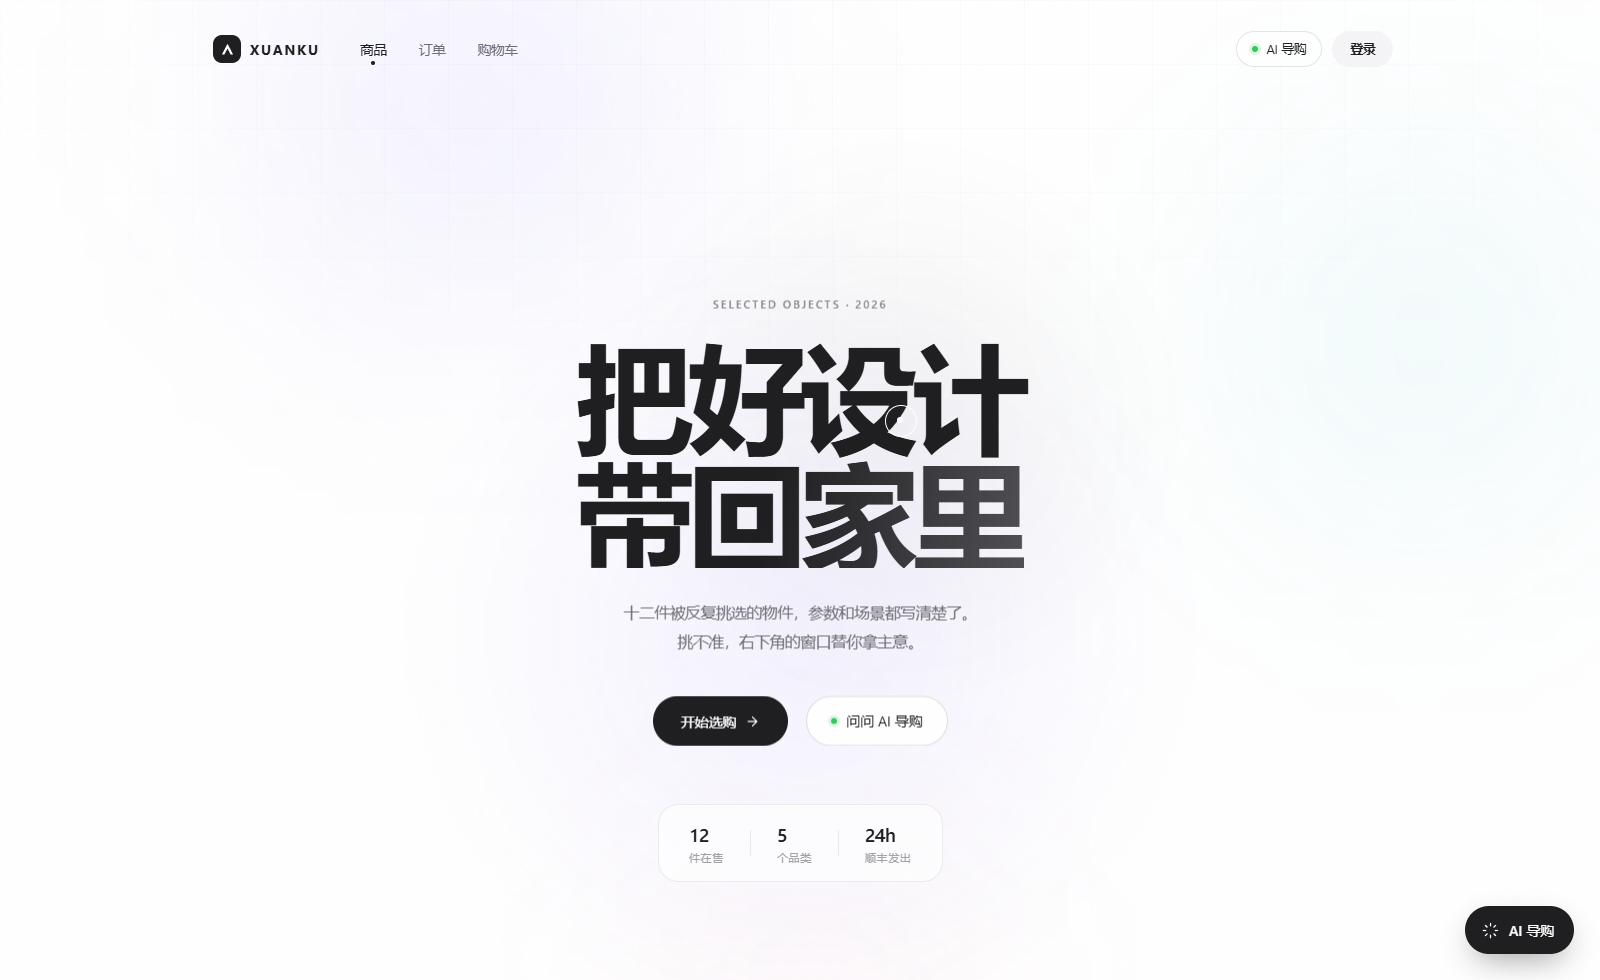
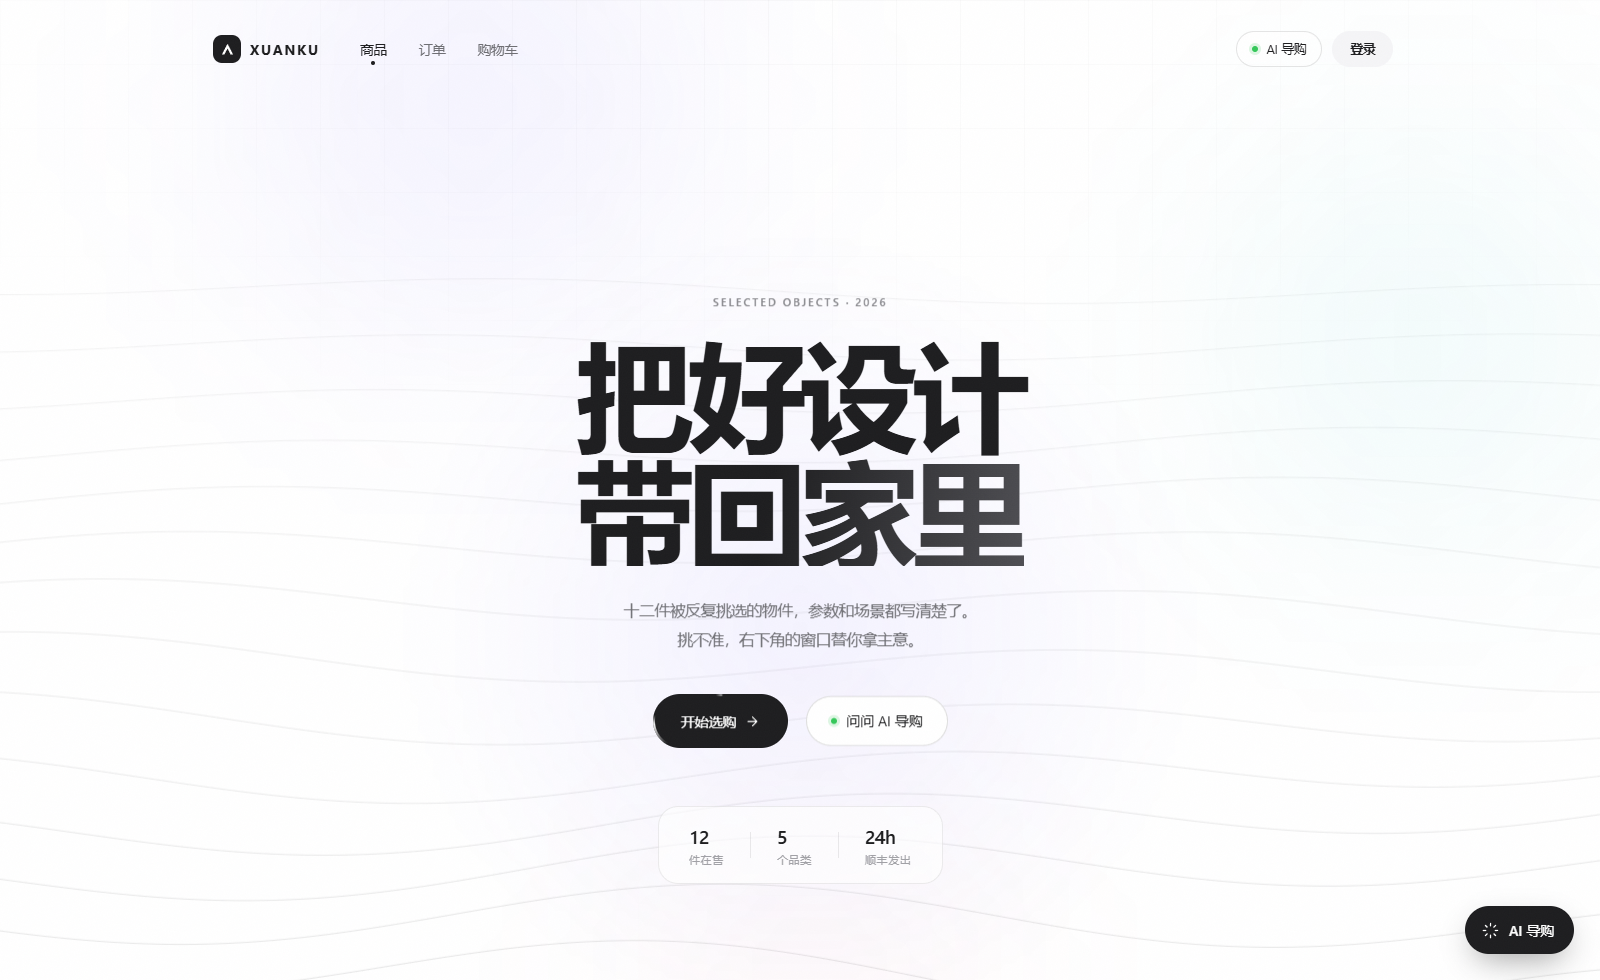
feat: 移植四件现成动效——波浪背景 / 解码文字 / StarBorder / 滚动视差
- WavesBg：hero 背景 16 行黑白细线正弦波叠加漂移，进出视口自动暂停，reduced-motion 画静态一帧
- v-scramble 指令：元素进视口时字符从随机符号逐帧解码成真实文案（React Bits DecryptedText 思路），hover 重播
- StarBorder：主 CTA 光点收敛到边缘 2px 环反向绕行（修掉第一版大光斑扫面的问题）
- 商品图滚动驱动视差：CSS animation-timeline: view() 零 JS，不支持的平台静态降级

diff --git a/src/views/shop/ShopHome.vue b/src/views/shop/ShopHome.vue
@@ -3,6 +3,7 @@ import { computed, inject, onBeforeUnmount, onMounted, reactive, ref, watch } fr
 import { useRoute, useRouter } from 'vue-router'
 import { shopApi } from '../../api'
 import { demoProducts, demoCategories } from '../../api/demo'
+import WavesBg from '../../components/WavesBg.vue'
 
 const route = useRoute()
 const router = useRouter()
@@ -188,11 +189,12 @@ const heroStyle = computed(() => {
   <div class="home">
     <!-- ============ HERO ============ -->
     <section ref="heroEl" class="hero" @mousemove="heroSpot">
+      <WavesBg class="hero-waves" />
       <div class="hero-glow" aria-hidden="true"></div>
       <div class="hero-spot" aria-hidden="true"></div>
 
       <div class="hero-inner" :style="heroStyle">
-        <p class="eyebrow hero-in">Selected Objects · 2026</p>
+        <p class="eyebrow hero-in" v-scramble>Selected Objects · 2026</p>
 
         <h1 class="title">
           <span class="line">
@@ -219,10 +221,16 @@ const heroStyle = computed(() => {
             @mousemove="magnetMove"
             @mouseleave="magnetLeave"
           >
-            <span>开始选购</span>
-            <svg viewBox="0 0 24 24" width="15" height="15" fill="none" stroke="currentColor" stroke-width="2">
-              <path d="M5 12h13M12 5l7 7-7 7" stroke-linecap="round" stroke-linejoin="round" />
-            </svg>
+            <span class="ring" aria-hidden="true">
+              <span class="beam"></span>
+              <span class="beam b2"></span>
+            </span>
+            <span class="core">
+              <span class="label">开始选购</span>
+              <svg viewBox="0 0 24 24" width="15" height="15" fill="none" stroke="currentColor" stroke-width="2">
+                <path d="M5 12h13M12 5l7 7-7 7" stroke-linecap="round" stroke-linejoin="round" />
+              </svg>
+            </span>
           </a>
           <button class="ghost" @click="openChat">
             <span class="spark"></span>
@@ -354,7 +362,7 @@ const heroStyle = computed(() => {
 
     <!-- ============ 尾部 CTA ============ -->
     <section class="outro">
-      <p class="eyebrow">还没想好？</p>
+      <p class="eyebrow" v-scramble>还没想好？</p>
       <h2 class="outro-title">
         让 AI 替你<br />
         <span class="grad-text">挑一件对的</span>
@@ -384,6 +392,14 @@ const heroStyle = computed(() => {
   justify-content: center;
   padding: 40px 32px 120px;
   overflow: hidden;
+  isolation: isolate;
+}
+
+/* 波浪线画布：垫在最底层，光晕之下 */
+.hero-waves {
+  position: absolute;
+  inset: 0;
+  z-index: 0;
 }
 
 .hero-glow {
@@ -418,6 +434,7 @@ const heroStyle = computed(() => {
 
 .hero-inner {
   position: relative;
+  z-index: 1;
   max-width: 1060px;
   text-align: center;
   will-change: transform, opacity;
@@ -490,22 +507,72 @@ const heroStyle = computed(() => {
 }
 
 .primary {
+  position: relative;
+  display: inline-flex;
+  height: 50px;
+  padding: 2px;
+  border-radius: 999px;
+  background: #1d1d1f;
+  text-decoration: none;
+  transition: transform 0.5s var(--ease-out);
+}
+
+/* StarBorder：光点只在边缘 2px 环上绕行，中心被 .core 盖住 */
+.primary .ring {
+  position: absolute;
+  inset: 0;
+  border-radius: 999px;
+  overflow: hidden;
+  pointer-events: none;
+}
+
+.primary .beam {
+  position: absolute;
+  inset: -150%;
+  background: conic-gradient(
+    from 0deg,
+    transparent 0deg 332deg,
+    rgba(255, 255, 255, 0.95) 352deg,
+    transparent 360deg
+  );
+  animation: beam-spin 4.2s linear infinite;
+}
+
+.primary .beam.b2 {
+  background: conic-gradient(
+    from 180deg,
+    transparent 0deg 344deg,
+    rgba(255, 255, 255, 0.5) 356deg,
+    transparent 360deg
+  );
+  animation-duration: 6.6s;
+  animation-direction: reverse;
+}
+
+.primary .core {
+  position: relative;
+  z-index: 1;
   display: inline-flex;
   align-items: center;
   gap: 9px;
-  height: 50px;
-  padding: 0 28px;
+  height: 100%;
+  padding: 0 26px;
   border-radius: 999px;
   background: #1d1d1f;
   color: #fff;
   font-size: 14px;
   font-weight: 500;
-  text-decoration: none;
-  transition: background-color 0.2s, transform 0.5s var(--ease-out);
+  transition: background-color 0.2s;
 }
 
-.primary:hover {
+.primary:hover .core {
   background: #000;
+}
+
+@keyframes beam-spin {
+  to {
+    transform: rotate(1turn);
+  }
 }
 
 .ghost {
@@ -881,6 +948,29 @@ const heroStyle = computed(() => {
 
 .card:hover .photo {
   transform: scale(1.06);
+}
+
+/* 滚动驱动图片视差：图片随卡片在视口中的位置上下平移（零 JS，渐进增强） */
+@keyframes card-par {
+  from {
+    transform: scale(1.12) translateY(-4.5%);
+  }
+  to {
+    transform: scale(1.12) translateY(4.5%);
+  }
+}
+
+@supports (animation-timeline: view()) {
+  .photo.loaded {
+    animation: card-par linear both;
+    animation-timeline: view();
+    animation-range: entry 10% cover 45%;
+  }
+  @media (prefers-reduced-motion: reduce) {
+    .photo.loaded {
+      animation: none;
+    }
+  }
 }
 
 .s0 .shape {

diff --git a/src/components/WavesBg.vue b/src/components/WavesBg.vue
@@ -1,0 +1,107 @@
+<script setup>
+/**
+ * Waves：hero 背景的一组黑白细线波浪（移植自 "silk / waves" 类 canvas 动效）。
+ * 多行正弦叠加缓慢漂移，进出视口自动暂停，reduced-motion 只画静态一帧。
+ */
+import { onBeforeUnmount, onMounted, ref } from 'vue'
+
+const props = defineProps({
+  rows: { type: Number, default: 16 },
+})
+
+const canvasRef = ref(null)
+let raf = 0
+let running = false
+let W = 0
+let H = 0
+let dpr = 1
+let io = null
+
+function resize() {
+  const el = canvasRef.value
+  if (!el) return
+  const rect = el.parentElement.getBoundingClientRect()
+  dpr = Math.min(2, window.devicePixelRatio || 1)
+  W = rect.width
+  H = rect.height
+  el.width = W * dpr
+  el.height = H * dpr
+  el.style.width = `${W}px`
+  el.style.height = `${H}px`
+}
+
+function draw(t) {
+  const ctx = canvasRef.value?.getContext('2d')
+  if (!ctx) return
+  ctx.setTransform(dpr, 0, 0, dpr, 0, 0)
+  ctx.clearRect(0, 0, W, H)
+
+  for (let i = 0; i < props.rows; i++) {
+    const p = i / (props.rows - 1)
+    const baseY = H * (0.18 + p * 0.75)
+    const amp = 10 + p * 22
+    const alpha = 0.05 + p * 0.07
+
+    ctx.beginPath()
+    for (let x = -10; x <= W + 10; x += 6) {
+      const y =
+        baseY +
+        Math.sin(x * 0.006 + t * 0.00045 + i * 0.42) * amp +
+        Math.sin(x * 0.0018 - t * 0.00028 + i * 0.9) * amp * 0.55
+      x === -10 ? ctx.moveTo(x, y) : ctx.lineTo(x, y)
+    }
+    ctx.strokeStyle = `rgba(29, 29, 31, ${alpha.toFixed(3)})`
+    ctx.lineWidth = 1
+    ctx.stroke()
+  }
+}
+
+function loop(t) {
+  draw(t)
+  raf = requestAnimationFrame(loop)
+}
+
+function start() {
+  if (running) return
+  running = true
+  if (window.matchMedia('(prefers-reduced-motion: reduce)').matches) {
+    draw(2200) // 静态一帧
+    return
+  }
+  raf = requestAnimationFrame(loop)
+}
+
+function stop() {
+  running = false
+  cancelAnimationFrame(raf)
+}
+
+onMounted(() => {
+  resize()
+  window.addEventListener('resize', resize)
+
+  io = new IntersectionObserver(
+    (entries) => (entries.some((e) => e.isIntersecting) ? start() : stop()),
+    { threshold: 0 },
+  )
+  io.observe(canvasRef.value.parentElement)
+})
+
+onBeforeUnmount(() => {
+  stop()
+  io?.disconnect()
+  window.removeEventListener('resize', resize)
+})
+</script>
+
+<template>
+  <canvas ref="canvasRef" class="waves" aria-hidden="true"></canvas>
+</template>
+
+<style scoped>
+.waves {
+  position: absolute;
+  inset: 0;
+  pointer-events: none;
+}
+</style>

diff --git a/src/directives/scramble.js b/src/directives/scramble.js
@@ -1,0 +1,72 @@
+/**
+ * v-scramble：解码文字效果（移植自 React Bits 的 DecryptedText 思路）。
+ * 元素进入视口时，字符从随机符号逐帧「解锁」成真实文案；
+ * 加 .hover 修饰符后鼠标移入会重新播放。
+ * 尊重 prefers-reduced-motion：直接显示原文。
+ */
+const POOL = '!<>-_\\/[]{}—=+*^?#________'
+
+function play(el) {
+  if (el._scrambleRaf) cancelAnimationFrame(el._scrambleRaf)
+  const finalText = el.dataset.scrambleText
+  const totalFrames = Math.max(20, finalText.length * 3)
+  let frame = 0
+
+  const tick = () => {
+    frame += 1
+    const revealed = Math.floor((frame / totalFrames) * finalText.length * 1.4)
+    let out = ''
+    for (let i = 0; i < finalText.length; i++) {
+      const ch = finalText[i]
+      if (ch === ' ' || ch === '·') {
+        out += ch
+      } else if (i < revealed) {
+        out += ch
+      } else {
+        out += POOL[Math.floor(Math.random() * POOL.length)]
+      }
+    }
+    el.textContent = out
+    if (revealed < finalText.length) {
+      el._scrambleRaf = requestAnimationFrame(tick)
+    } else {
+      el.textContent = finalText
+      el._scrambleRaf = null
+    }
+  }
+  el._scrambleRaf = requestAnimationFrame(tick)
+}
+
+export default {
+  mounted(el) {
+    const text = el.textContent.trim()
+    el.dataset.scrambleText = text
+    el.textContent = text
+
+    if (window.matchMedia('(prefers-reduced-motion: reduce)').matches) return
+
+    const io = new IntersectionObserver(
+      (entries) => {
+        if (entries.some((e) => e.isIntersecting)) {
+          play(el)
+          io.disconnect()
+        }
+      },
+      { threshold: 0.6 },
+    )
+    io.observe(el)
+    el._scrambleIO = io
+
+    if (!el._scrambleHover) {
+      el._scrambleHover = () => {
+        if (!el._scrambleRaf) play(el)
+      }
+      el.addEventListener('mouseenter', el._scrambleHover)
+    }
+  },
+  unmounted(el) {
+    if (el._scrambleRaf) cancelAnimationFrame(el._scrambleRaf)
+    el._scrambleIO?.disconnect()
+    el.removeEventListener('mouseenter', el._scrambleHover)
+  },
+}

diff --git a/src/main.js b/src/main.js
@@ -7,9 +7,11 @@ import './style.css'
 import App from './App.vue'
 import router from './router'
 import reveal from './directives/reveal'
+import scramble from './directives/scramble'
 
 const app = createApp(App)
 app.use(createPinia())
 app.use(router)
 app.directive('reveal', reveal)
+app.directive('scramble', scramble)
 app.mount('#app')

diff --git a/README.md b/README.md
@@ -16,7 +16,9 @@
 | 商品卡 | 白卡 + 内层 3D 倾斜（±3.4°）+ 跟随鼠标的淡灰光斑 + 一道白色扫光 |
 | 网格 | IntersectionObserver 按列 70ms 错峰入场，`prefers-reduced-motion` 全量降级 |
 | 光标 | 全局自定义光标：小点即时跟随 + 圆环滞后追踪，`mix-blend-mode: difference` 反色（白底显黑、深图显白），触屏自动禁用 |
-| 首屏 | 标题第一行逐字 blur 入场；数据条数字从 0 滚动到位；一道极淡暗晕跟随鼠标 |
+| 首屏 | 标题第一行逐字 blur 入场；eyebrow 解码文字（字符乱序逐帧解锁）；数据条数字从 0 滚动到位；一道极淡暗晕跟随鼠标；背景 16 行黑白细线波浪缓慢漂移（Canvas，离开视口自动暂停） |
+| CTA | StarBorder 流光边框：两道光点沿按钮边缘 2px 环反向绕行 |
+| 商品图 | 滚动驱动视差（CSS `animation-timeline: view()`，零 JS 渐进增强） |
 | 全局 | 顶部 2px 滚动进度线；AI 面板打开时深色玻璃浮层 |
 | AI 导购 | 右下黑色胶囊按钮 → 深色玻璃面板（白底上唯一的深色层次），本地意图匹配（预算/品类/新品/性价比）+ 逐字打字机 |
 
